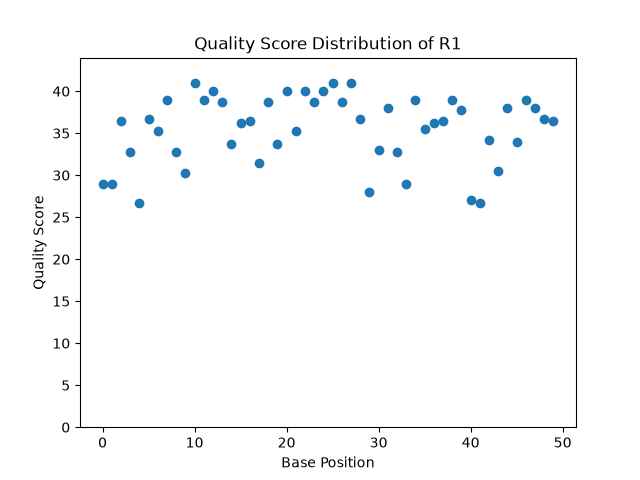
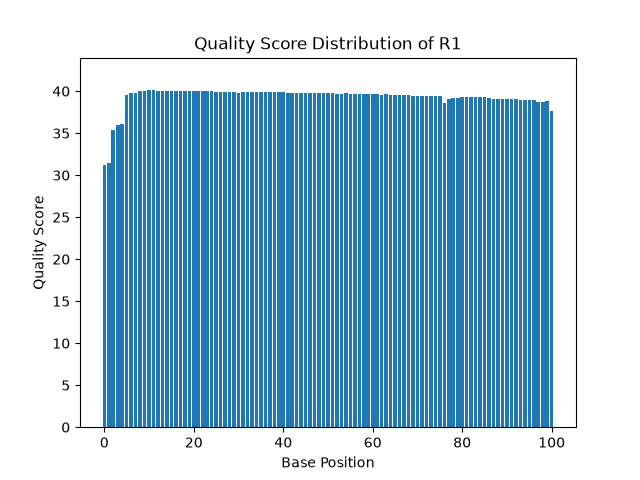
Upload quality score distributions

diff --git a/Assignment-the-first/Part1.py b/Assignment-the-first/Part1.py
@@ -69,10 +69,9 @@ if read != None: # If a read number is provided, print to file named RX_distribu
 else:
     print("No read provided")
 
-
-x=range(len(mean_scores))
-y=mean_scores
-plt.scatter(x,y)
+pos=range(len(mean_scores))
+scores=mean_scores
+plt.bar(pos,scores)
 plt.ylim(0,44)
 plt.ylabel("Quality Score")
 plt.xlabel("Base Position")

diff --git a/Lab-Notebook/Assignment 1.md b/Lab-Notebook/Assignment 1.md
@@ -51,17 +51,25 @@ N/A
 **Scripts run:**
 
 ```
-pixi shell
-./Assignment-the-first.Part1.py -t True R1
+qscore-R1.sh
+qscore-R2.sh
+qscore-R3.sh
+qscore-R4.sh
 ```
 
 **Commands run:**
 
-```pixi shell 
+```
+pixi shell 
 ./Assignment-the-first.Part1.py -t True R1 
 ./Assignment-the-first.Part1.py -t True R2 
 ./Assignment-the-first.Part1.py -t True R3 
 ./Assignment-the-first.Part1.py -t True R4 
+
+sbatch Assignment-the-first/qscore-R1.sh
+sbatch Assignment-the-first/qscore-R2.sh
+sbatch Assignment-the-first/qscore-R3.sh
+sbatch Assignment-the-first/qscore-R4.sh
 ```
 
 **Job resource usage (`/usr/bin/time -v` summary from Talapas):**
@@ -70,7 +78,7 @@ N/A
 
 ----------------------------------------------------------
 
-### [08-01-2026]
+### [08-02-2026]
 
 - Examine files
     - R1 = Read1 (102 bases)
@@ -82,7 +90,12 @@ N/A
 
 **Scripts run:**
 
-```x```
+```
+qscore-R1.sh
+qscore-R2.sh
+qscore-R3.sh
+qscore-R4.sh
+```
 
 **Commands run:**
 
